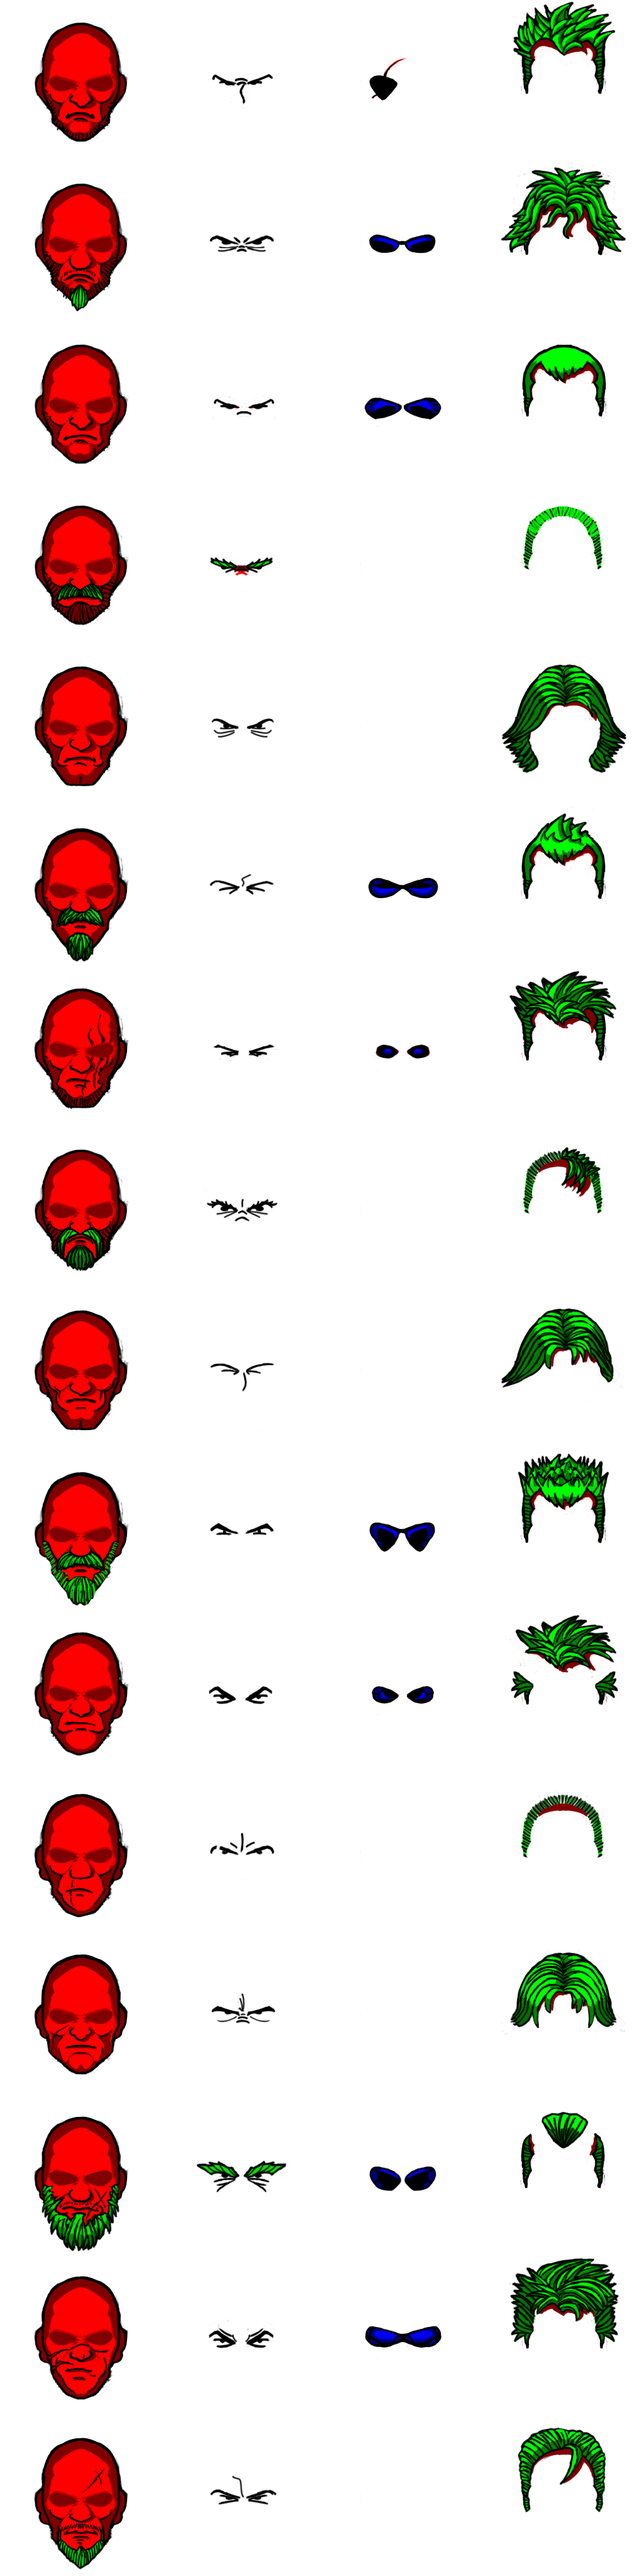
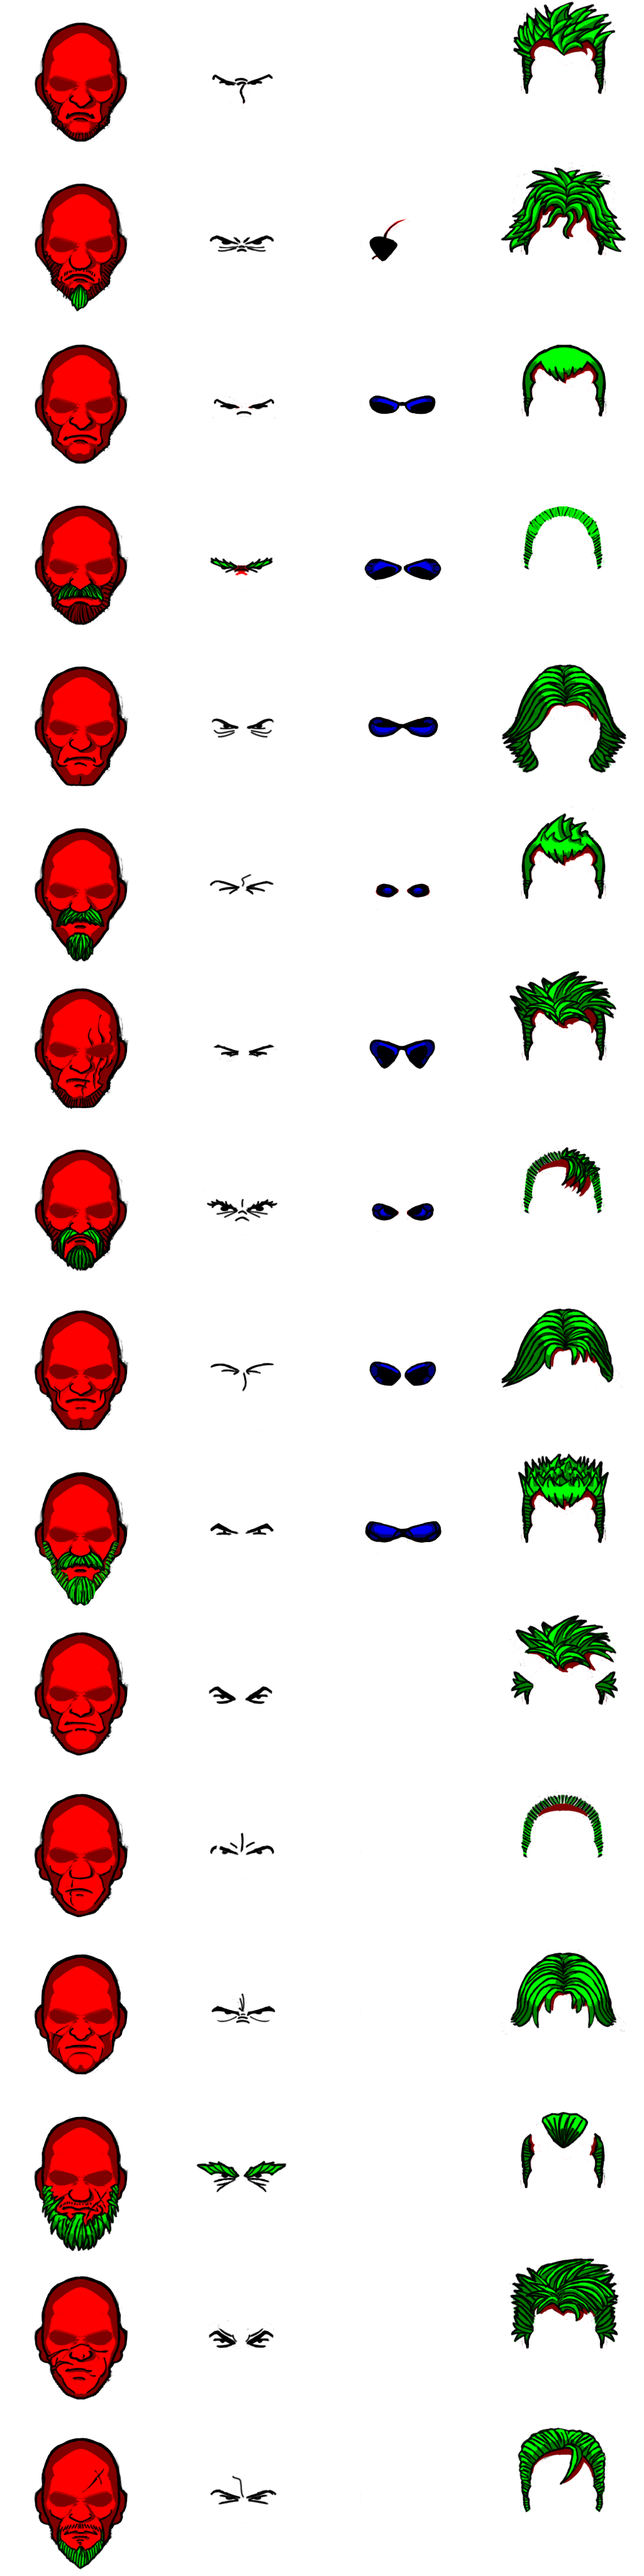
group the glasses. use script logic to choose glasses or not.

diff --git a/scenes/livepreviewscene.cpp b/scenes/livepreviewscene.cpp
@@ -155,6 +155,13 @@ void LivePreviewScene::GenerateFaces( int mainRow )
 			tex[0] = rowMult * (float)random.Rand(srcRows);
 			tex[1] = rowMult * (float)random.Rand(srcRows);
 			tex[2] = rowMult * (float)random.Rand(srcRows);
+			if ( !live ) {
+				// glasses handled special:
+				if ( random.Bit() )
+					tex[2] = rowMult * (float)(srcRows);
+				else
+					tex[2] = rowMult * (float)( srcRows - random.Rand( FaceGen::GLASSES_ROWS ));
+			}
 			tex[3] = rowMult * (float)random.Rand(srcRows);
 			if ( live ) {
 				tex[col] = current;

diff --git a/script/procedural.h b/script/procedural.h
@@ -27,7 +27,12 @@ public:
 	enum { 
 		NUM_SKIN_COLORS = 4,
 		NUM_HAIR_COLORS	= 10,
-		NUM_GLASSES_COLORS = 4
+		NUM_GLASSES_COLORS = 4,
+
+		FACE_ROWS = 16,
+		EYE_ROWS = 16,
+		GLASSES_ROWS = 10,
+		HAIR_ROWS = 16
 	};
 	void GetSkinColor( int index0, int index1, float fade, grinliz::Color4F* c, grinliz::Color4F* highlight );
 	void GetHairColor( int index0, grinliz::Color4F* c );
